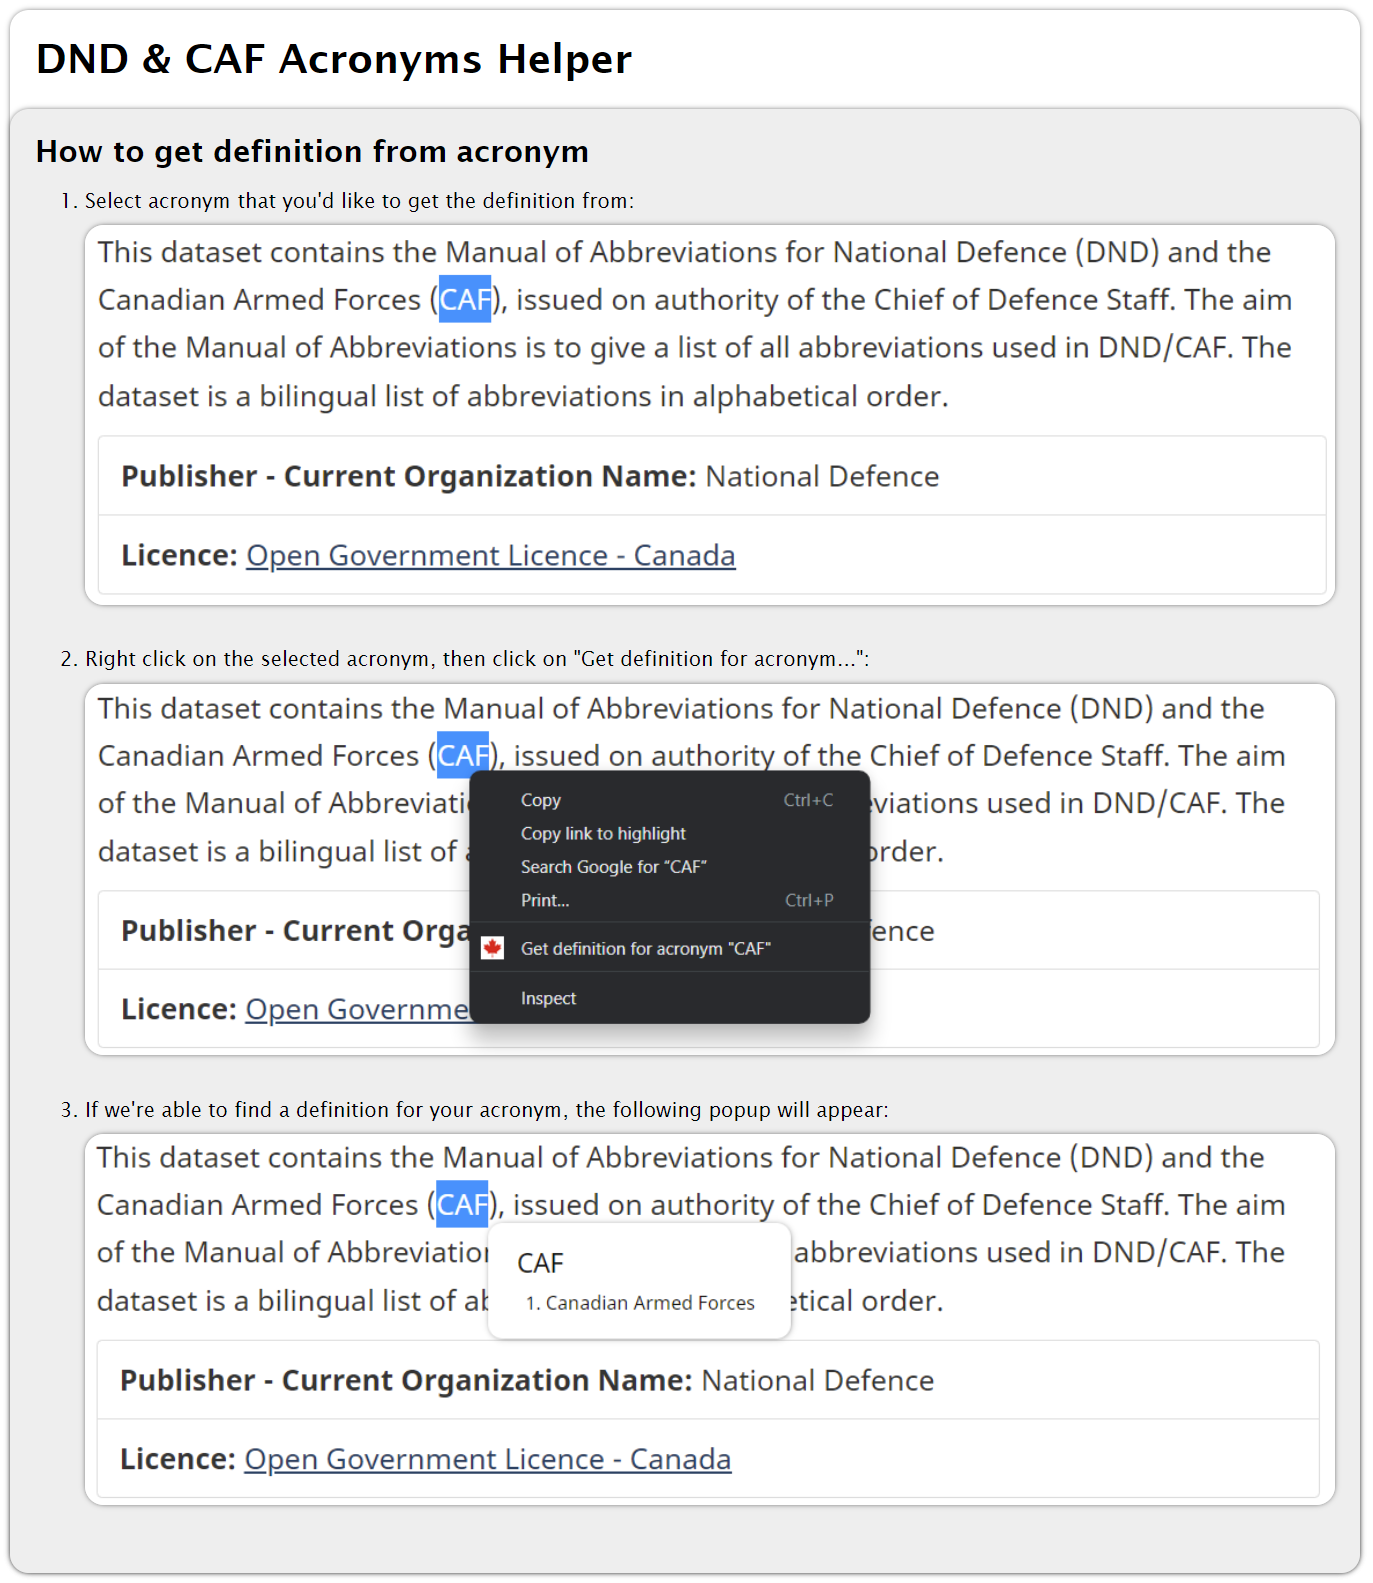
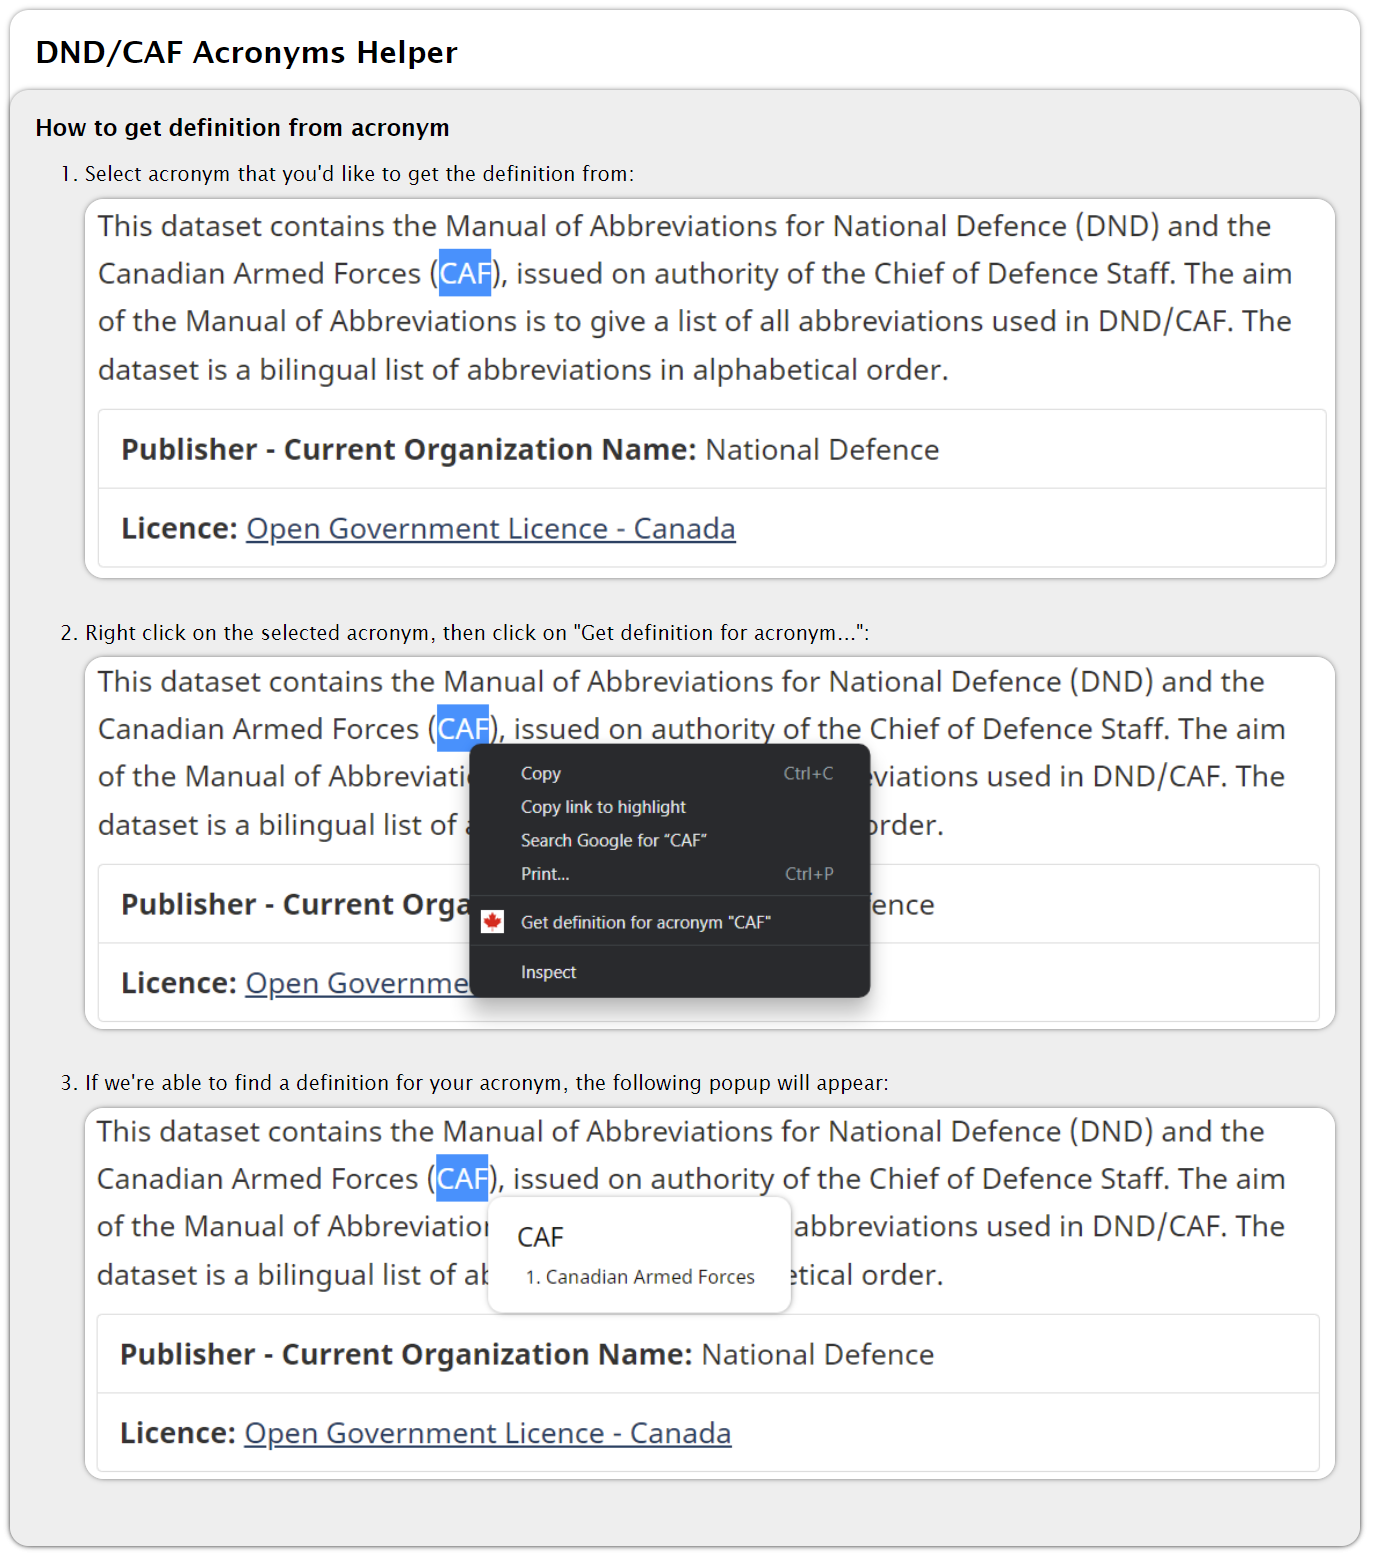
Minor changes to help page and README

Changed region(s): [[0.0306, 0.0, 1.0, 0.9878], [0.0306, 0.9878, 0.9789, 1.0], [0.0918, 0.8643, 0.673, 0.926]]

diff --git a/src/html/help.html b/src/html/help.html
@@ -10,7 +10,7 @@
 
 </style>
 <body>
-    <h1>DND & CAF Acronyms Helper</h1>
+    <h1>DND/CAF Acronyms Helper</h1>
     <div class="section">
         <h2>How to get definition from acronym</h2>
         <ol>

diff --git a/README.md b/README.md
@@ -1,7 +1,7 @@
 # DND-Hackathon-2022
 
 ## Description
-We created a Google Chrome extension that helps users get the full terms of DND/CAF acronyms. This will be especially useful for new individuals who are not yet familiar with the wide variety of acronyms utilized through different government documents found on the web. Although, it will come in handy for more experienced users browsing through unfamiliar documents.
+We created a Google Chrome extension that helps with DND/CAF related acronyms in both English and French. This will be especially useful for new individuals who are not yet familiar with the wide variety of acronyms utilized through different government documents found on the web. Although, it will also come in handy for more experienced users browsing through unfamiliar documents.
 
 ---
 
